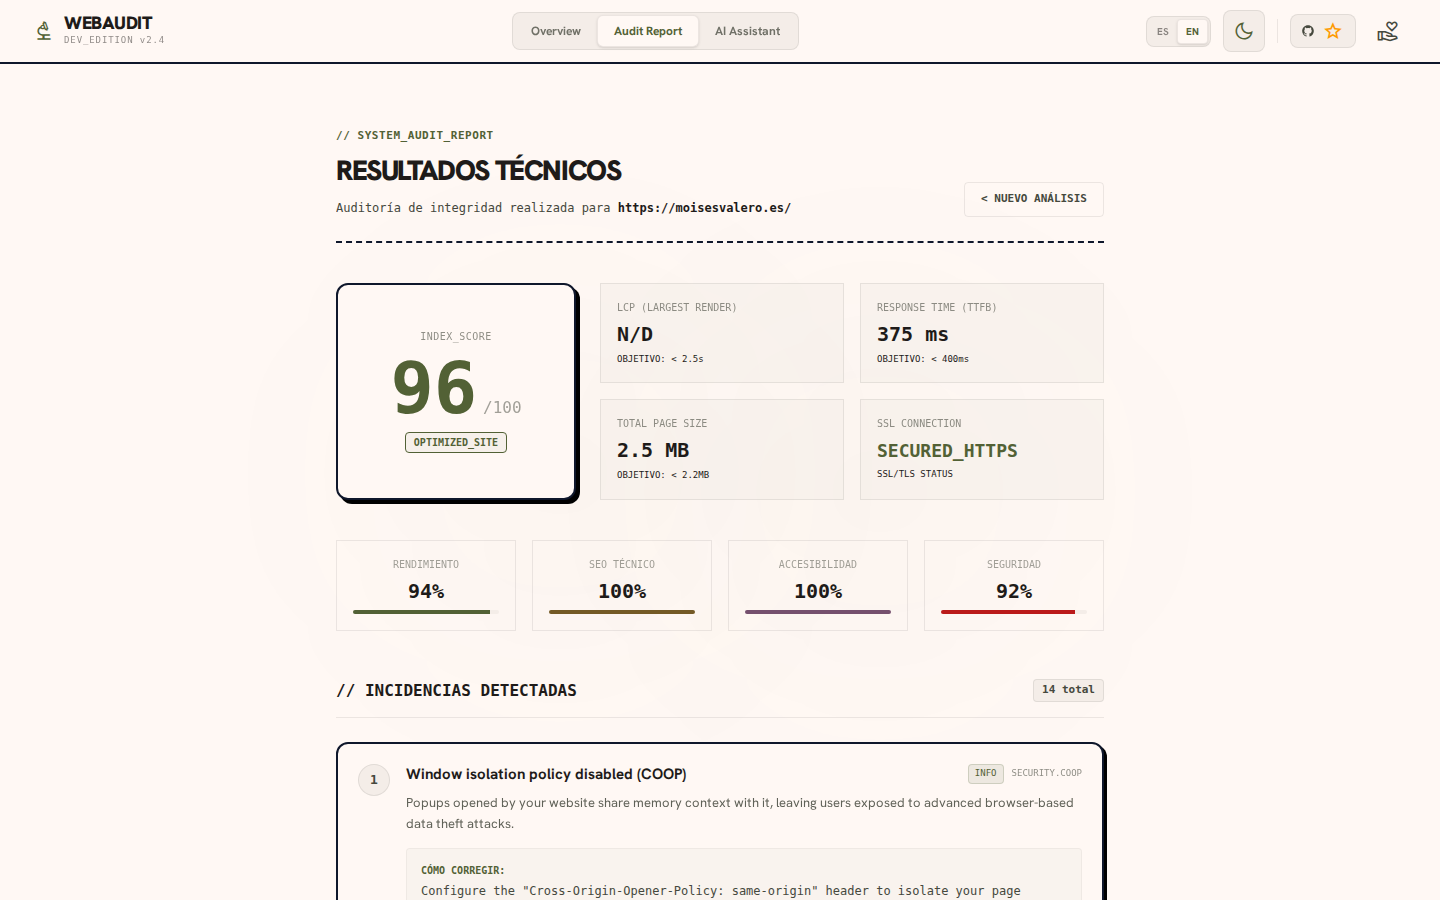
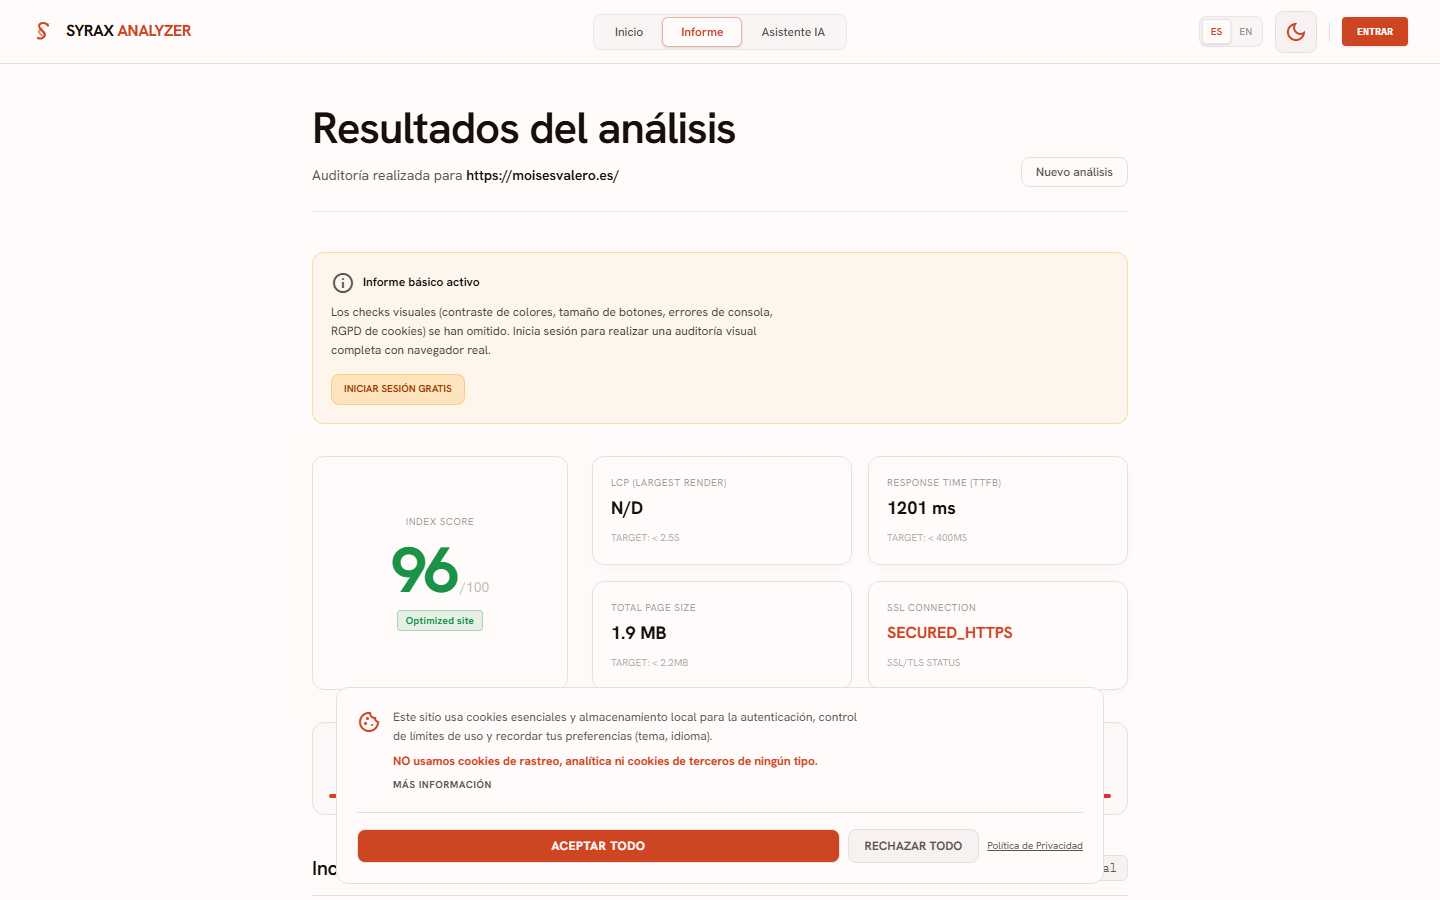
chore: update web-analyzer case study to Syrax Analyzer SaaS

diff --git a/sanity/seed-case-study-web-analyzer.ts b/sanity/seed-case-study-web-analyzer.ts
@@ -13,36 +13,38 @@ async function main() {
 		estadoInterno: 'listo',
 		showOnHome: false,
 		homeSortOrder: 15,
-		title: 'Web Analyzer',
-		titleEn: 'Web Analyzer',
+		title: 'Syrax Analyzer',
+		titleEn: 'Syrax Analyzer',
 		slug: { _type: 'slug', current: 'web-analyzer' },
 		seoDescription:
-			'Web Analyzer: auditoría web con SvelteKit y Playwright — SEO, seguridad HTTP, WCAG, cookies, CMS y prompts de reparación con IA. Anti-SSRF, rate limiting y despliegue en Vercel.',
+			'Syrax Analyzer: plataforma SaaS de auditoría web técnica con SvelteKit, Supabase y Stripe. Core Web Vitals, cabeceras de seguridad, accesibilidad WCAG, SEO técnico, AEO/GEO y prompts de reparación con IA.',
 		seoDescriptionEn:
-			'Web Analyzer: SvelteKit + Playwright web audit tool for SEO, HTTP security, WCAG, cookies, CMS fingerprinting, and AI repair prompts. Anti-SSRF, rate limiting, and Vercel deployment.',
-		heroTag: 'Proyecto personal · Herramienta SaaS-lite',
-		heroTagEn: 'Personal project · SaaS-lite tool',
+			'Syrax Analyzer: SaaS technical web audit platform built with SvelteKit, Supabase, and Stripe. Audits Core Web Vitals, security headers, WCAG accessibility, technical SEO, AEO/GEO, and provides AI repair prompts.',
+		heroTag: 'Proyecto personal · Plataforma SaaS comercial',
+		heroTagEn: 'Personal project · Commercial SaaS platform',
 		heroDescription:
-			'Consola de auditoría web con estética de laboratorio técnico: más de 30 comprobaciones en 10 bloques (SEO/AEO, cabeceras, accesibilidad, cookies, CMS, consola JS y viewports) con informe accionable y prompts listos para copiar a tu agente de IA.',
+			'Plataforma SaaS de auditoría técnica integral para páginas web. Analiza más de 120 factores en 10 categorías críticas (SEO/AEO, accesibilidad WCAG, privacidad RGPD, seguridad HTTP y velocidad) con informes visuales y prompts de corrección listos para usar en tus agentes de IA.',
 		heroDescriptionEn:
-			'A technical lab-style web audit console: 30+ checks across 10 sections (SEO/AEO, headers, accessibility, cookies, CMS, JS console, and viewports) with actionable reports and copy-ready prompts for your AI agent.',
+			'A comprehensive technical web audit SaaS platform. Scans 120+ checks across 10 critical categories (SEO/AEO, WCAG accessibility, GDPR privacy, HTTP security, and speed) with visual reports and copy-ready fix prompts for your AI agents.',
 		tags: [
 			'SvelteKit',
 			'Svelte 5',
 			'TypeScript',
-			'Playwright',
-			'SEO',
-			'WCAG',
-			'Vercel'
+			'Tailwind CSS v4',
+			'Supabase',
+			'Stripe',
+			'Upstash Redis',
+			'Playwright'
 		],
 		tagsEn: [
 			'SvelteKit',
 			'Svelte 5',
 			'TypeScript',
-			'Playwright',
-			'SEO',
-			'WCAG',
-			'Vercel'
+			'Tailwind CSS v4',
+			'Supabase',
+			'Stripe',
+			'Upstash Redis',
+			'Playwright'
 		],
 		images: {
 			principal: '/imagenes/web-analyzer-home.png',
@@ -50,66 +52,66 @@ async function main() {
 			secondary2: '/imagenes/web-analyzer-report.png'
 		},
 		metrics: [
-			metric('30+', 'comprobaciones tecnicas', 0),
-			metric('10', 'bloques de auditoria', 1),
-			metric('3', 'capas anti-abuso (SSRF/OOM/rate)', 2),
+			metric('120+', 'comprobaciones tecnicas', 0),
+			metric('10', 'categorias de auditoria', 1),
+			metric('Suscripcion', 'Stripe Billing y Portal', 2),
 			metric('IA', 'prompts de reparacion por hallazgo', 3)
 		],
 		metricsEn: [
-			metric('30+', 'technical checks', 0),
-			metric('10', 'audit sections', 1),
-			metric('3', 'abuse-protection layers (SSRF/OOM/rate)', 2),
+			metric('120+', 'technical checks', 0),
+			metric('10', 'audit categories', 1),
+			metric('Billing', 'Stripe subscription & portal', 2),
 			metric('AI', 'repair prompts per finding', 3)
 		],
 		reto: {
 			title: 'El reto',
-			bodyHtml: `<p>Quería una herramienta propia para auditar sitios reales — la mía y la de clientes potenciales — sin depender solo de Lighthouse en DevTools. Hacía falta cubrir <strong>SEO técnico, AEO, seguridad visible, WCAG, cookies pre-consentimiento y fingerprinting de CMS</strong> en un solo flujo, con resultados que un humano o una IA pudieran actuar al día siguiente.</p><p>Además, al exponerlo en Internet como API pública, el motor debía resistir SSRF, descargas gigantes y abuso por IP sin montar infraestructura pesada.</p>`
+			bodyHtml: `<p>Convertir mi analizador web en un <strong>SaaS comercial completo</strong> capaz de gestionar suscripciones reales y auditorías visuales profundas mediante un navegador real, sin disparar los costes de servidor.</p><p>Hacía falta integrar autenticación robusta, cobros de suscripción recurrentes y pasarela de facturación automática con Stripe, además de resolver la infraestructura necesaria para ejecutar Playwright/Chromium en la nube con aislamiento de procesos y protección estricta contra ataques de inyección y SSRF.</p>`
 		},
 		retoEn: {
 			title: 'The challenge',
-			bodyHtml: `<p>I wanted my own tool to audit real websites — mine and prospective clients' — without relying only on Lighthouse in DevTools. It had to cover <strong>technical SEO, AEO, visible security, WCAG, pre-consent cookies, and CMS fingerprinting</strong> in one flow, with results a human or AI could act on the next day.</p><p>Because it would be exposed on the public internet as an API, the engine also had to resist SSRF, oversized downloads, and IP abuse without heavy infrastructure.</p>`
+			bodyHtml: `<p>Transforming my web analyzer into a <strong>fully-fledged commercial SaaS</strong> capable of handling real subscriptions and deep visual audits through a headless browser, all while keeping server costs low.</p><p>The challenge was to integrate robust authentication, recurring subscription billing, and automated invoicing via Stripe, while establishing the backend infrastructure to safely run Playwright/Chromium in the cloud with process isolation and strict security guards against SSRF and injection attacks.</p>`
 		},
 		hice: {
 			title: 'Lo que hice',
-			bodyHtml: `<p><strong>Motor de auditoría:</strong> arquitectura SvelteKit con jobs asíncronos (202 + polling), auditor de entrega HTTP y auditor visual con Chromium/Playwright: consola JS, viewports móvil/tablet/desktop, cookies y accesibilidad.</p><p><strong>Seguridad operativa:</strong> validación anti-SSRF (loopback, RFC1918, IPs codificadas), límites de bytes en respuestas (4 MB HTML / 2 MB recursos) y rate limiting por IP (10 análisis/hora) con persistencia en fichero temporal.</p><p><strong>Producto publicado:</strong> UI estilo consola técnica en <a href="https://web-analyzer-three.vercel.app" rel="noopener noreferrer">web-analyzer-three.vercel.app</a>, modo reparación con prompts por hallazgo, envío de informes por email vía Resend y una variante integrada en el portfolio.</p>`
+			bodyHtml: `<p><strong>Arquitectura SaaS:</strong> Integré SvelteKit con Supabase (Auth, RLS, triggers Postgres) para la gestión segura de cuentas, y Stripe Checkout + Customer Portal para cobros recurrentes de 5€/mes y descargas de facturas automáticas.</p><p><strong>Motor de auditoría avanzado:</strong> Motor con jobs asíncronos y rate limiting en Upstash Redis. El plan Premium utiliza <strong>browserless.io</strong> para renderizar en un navegador real, capturando contraste de colores WCAG, errores de consola en runtime y cookies pre-consentimiento.</p><p><strong>UX y Corrección IA:</strong> Panel web completo en Tailwind CSS v4 con pestañas de historial de análisis, y prompts detallados y accionables por cada fallo, optimizados para copiar y pegar directamente en Cursor u otros agentes de IA.</p>`
 		},
 		hiceEn: {
 			title: 'What I built',
-			bodyHtml: `<p><strong>Audit engine:</strong> SvelteKit architecture with async jobs (202 + polling), HTTP delivery auditor, and visual auditor with Chromium/Playwright: JS console, mobile/tablet/desktop viewports, cookies, and accessibility.</p><p><strong>Operational security:</strong> anti-SSRF validation (loopback, RFC1918, encoded IPs), byte limits on responses (4 MB HTML / 2 MB resources), and per-IP rate limiting (10 analyses/hour) with file-based persistence.</p><p><strong>Shipped product:</strong> technical console UI at <a href="https://web-analyzer-three.vercel.app" rel="noopener noreferrer">web-analyzer-three.vercel.app</a>, repair mode with per-finding prompts, email reports via Resend, plus an integrated variant on the portfolio.</p>`
+			bodyHtml: `<p><strong>SaaS Architecture:</strong> Integrated SvelteKit with Supabase (Auth, RLS, Postgres triggers) for secure user profiles, and Stripe Checkout + Customer Portal for €5/month recurring subscriptions and self-serve invoice downloads.</p><p><strong>Advanced Audit Engine:</strong> Async background jobs powered by Playwright, with Upstash Redis handling distributed rate limiting. Premium tier uses <strong>browserless.io</strong> to render in a headless browser, checking WCAG color contrast, JS console errors, and pre-consent cookies.</p><p><strong>UX & AI Remediations:</strong> Implemented a technical dashboard styled with Tailwind CSS v4 featuring past audit logs, and copy-pasteable prompts optimized for Cursor or other AI coding agents to fix each specific issue.</p>`
 		},
 		resultado: {
 			title: 'Resultado',
-			bodyHtml: `<p>Una herramienta que despliego como <strong>producto standalone</strong> y reutilizo como auditor antes de entregar proyectos web. No sustituye un pentest, pero condensa en minutos señales que suelen tardar horas en revisar a mano.</p><p>Proyecto personal que demuestra backend serverless serio en SvelteKit, pensamiento de seguridad y UX orientada a desarrolladores y equipos que ya trabajan con agentes de IA para corregir hallazgos.</p>`
+			bodyHtml: `<p>Un <strong>producto SaaS real</strong> con pasarela de pago activa que automatiza auditorías técnicas completas. Ahorra horas de trabajo manual al dar un informe estructurado que los desarrolladores pueden solucionar al instante con ayuda de IA.</p><p>Proyecto personal que demuestra el desarrollo de productos SaaS de extremo a extremo: integración de pasarelas de pago (Stripe), almacenamiento y seguridad (Supabase, Redis), automatización de navegadores en la nube (browserless.io) y diseño de prompts optimizados para flujos modernos de desarrollo asistido por IA.</p>`
 		},
 		resultadoEn: {
 			title: 'Outcome',
-			bodyHtml: `<p>A tool I ship as a <strong>standalone product</strong> and reuse as a real auditor before delivering web projects. It does not replace a pentest, but it compresses into minutes signals that often take hours to review manually.</p><p>A personal project that shows serious SvelteKit serverless backend work, security thinking, and UX aimed at developers and teams already using AI agents to fix findings.</p>`
+			bodyHtml: `<p>A <strong>live SaaS product</strong> with an active payment gateway that automates complete technical site audits. It saves hours of manual work by providing a structured report developers can solve immediately using AI.</p><p>It serves as a showcase of end-to-end SaaS engineering: payment system integrations (Stripe), data persistence & security (Supabase, Redis), cloud browser automation (browserless.io), and prompt engineering for modern AI-assisted workflows.</p>`
 		},
 		stack: [
 			'SvelteKit',
 			'Svelte 5',
 			'TypeScript',
+			'Tailwind CSS v4',
+			'Supabase',
+			'Stripe',
+			'Upstash Redis',
 			'Playwright',
-			'Chromium',
-			'Vitest',
 			'Resend',
-			'Vercel Serverless',
-			'oxlint',
 			'Zod'
 		],
 		stackEn: [
 			'SvelteKit',
 			'Svelte 5',
 			'TypeScript',
+			'Tailwind CSS v4',
+			'Supabase',
+			'Stripe',
+			'Upstash Redis',
 			'Playwright',
-			'Chromium',
-			'Vitest',
 			'Resend',
-			'Vercel Serverless',
-			'oxlint',
 			'Zod'
 		],
-		liveUrl: 'https://web-analyzer-three.vercel.app',
+		liveUrl: 'https://syrax-analyzer.moisesvalero.es',
 		repoUrl: 'https://github.com/moisesvalero/web-analyzer',
 		checklistPublicacion: {
 			tituloYSlug: true,

diff --git a/src/lib/data/project-live-urls.ts b/src/lib/data/project-live-urls.ts
@@ -13,7 +13,7 @@ export const projectLiveUrls = {
 	galeriaNovaV2: 'https://galerianova.es',
 	soporteIt: 'https://soporte.moisesvalero.es',
 	sideglass: 'https://sideglass.moisesvalero.es',
-	webAnalyzer: 'https://analyzer.moisesvalero.es',
+	webAnalyzer: 'https://syrax-analyzer.moisesvalero.es',
 	agentChecker: 'https://agentcheck.moisesvalero.es',
 	scanit: 'https://scanit.moisesvalero.es',
 	cvGenerator: 'https://cv.moisesvalero.es',